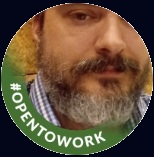
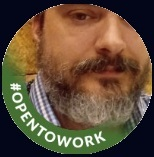
Reduce profile photo size

diff --git a/src/components/Hero.tsx b/src/components/Hero.tsx
@@ -24,15 +24,15 @@ const Hero = () => {
           src="/FotoJosePunto.jpg"
           alt="Jose Punto"
           className="
-            w-40
-            h-40
-            md:w-48
-            md:h-48
+            w-36
+            h-36
+            md:w-44
+            md:h-44
             rounded-full
             object-cover
             mx-auto
             mb-6
-            border-4
+            border-2
             border-yellow-400
             shadow-lg
           "
